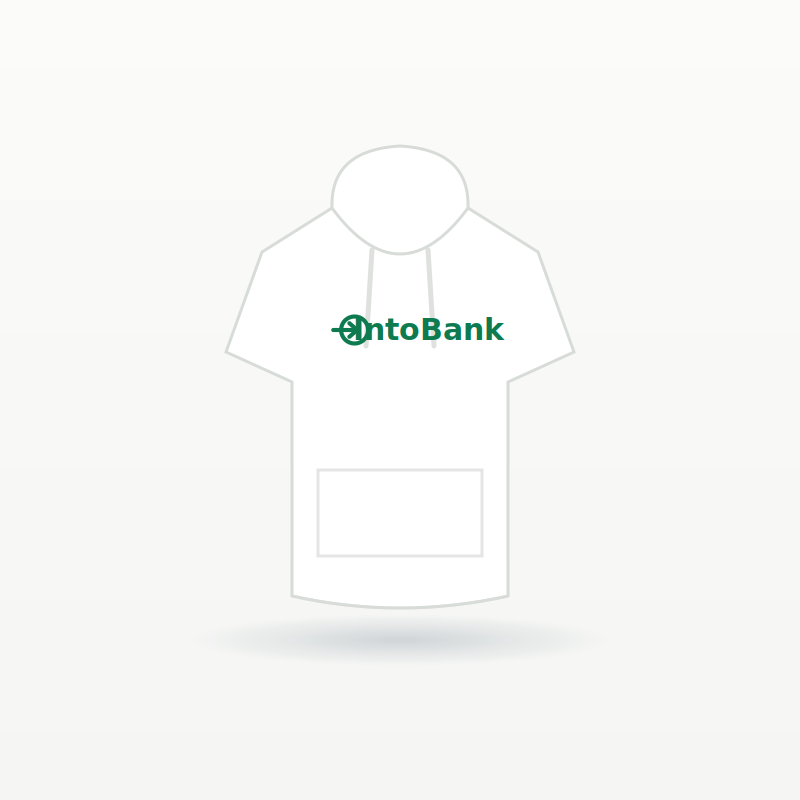
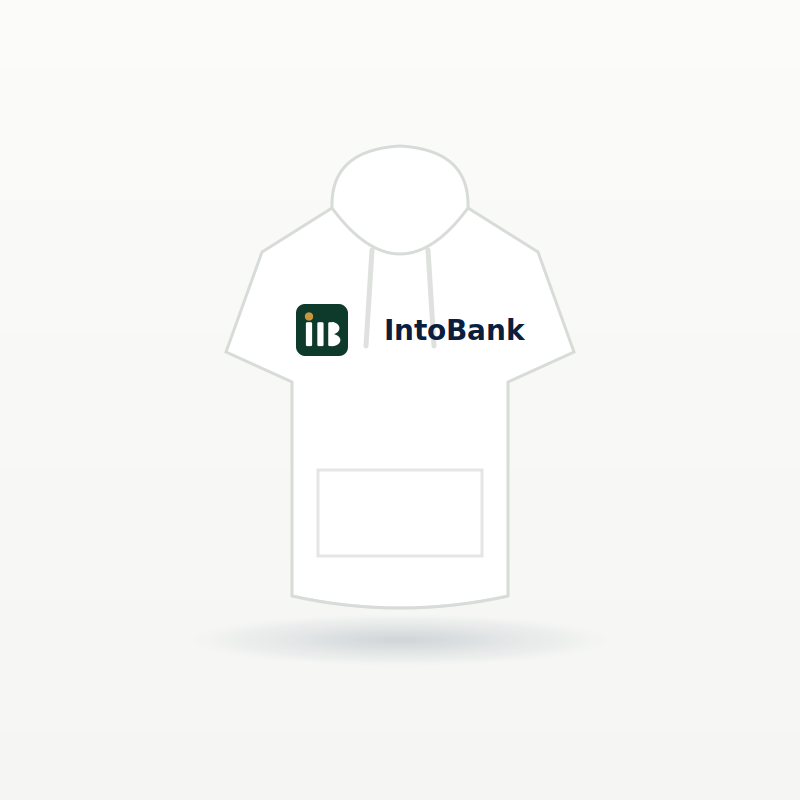
The product carousel raises mediaTouchRef during its touches so horizontal swipes stay in the carousel instead of switching feed tabs, and the storefront rebuilds with the real IntoBank mark - the dark green tile with white iB letterforms and the gold dot - across all twenty products

Changed region(s): [[0.3438, 0.375, 0.6562, 0.4688]]

diff --git a/admin-web/public/intobank/index.html b/admin-web/public/intobank/index.html
@@ -55,7 +55,7 @@
 <body>
 <header><div class="bar">
   <span class="logo">
-    <svg width="30" height="30" viewBox="0 0 60 60"><rect x="4" y="4" width="52" height="52" rx="7.8" fill="#0E7A4F"/><circle cx="32.6" cy="30" r="13.52" fill="none" stroke="#FFFFFF" stroke-width="4.16"/><path d="M11.280000000000001,30 L34.16,30" stroke="#FFFFFF" stroke-width="4.16" stroke-linecap="round"/><path d="M27.4,23.240000000000002 L35.2,30 L27.4,36.76" fill="none" stroke="#FFFFFF" stroke-width="4.16" stroke-linecap="round" stroke-linejoin="round"/></svg>
+    <svg width="30" height="30" viewBox="0 0 60 60"><rect x="4" y="4" width="52" height="52" rx="8.84" fill="#0D3A2B"/><rect x="13.879999999999999" y="22.2" width="6.24" height="23.920000000000005" rx="1.2480000000000002" fill="#FFFFFF"/><circle cx="17.0" cy="16.48" r="4.16" fill="#C9963B"/><rect x="25.32" y="22.2" width="6.24" height="23.920000000000005" rx="1.2480000000000002" fill="#FFFFFF"/><rect x="36.24" y="22.2" width="6.24" height="23.920000000000005" rx="1.2480000000000002" fill="#FFFFFF"/><path d="M39.984,22.2 L39.984,34.160000000000004 A7.415200000000001,5.980000000000001 0 0 0 39.984,22.2 Z" fill="#FFFFFF"/><path d="M39.984,34.160000000000004 L39.984,46.120000000000005 A8.372000000000002,5.980000000000001 0 0 0 39.984,34.160000000000004 Z" fill="#FFFFFF"/></svg>
     IntoBank
   </span>
   <span class="demo">Demo storefront</span>

diff --git a/src/screens/feed/FeedScreen.tsx b/src/screens/feed/FeedScreen.tsx
@@ -1587,13 +1587,15 @@ if (!search && promos.length > 0) {
             <Feather name="share-2" size={20} color={light.ink.muted} />
           </TouchableOpacity>
         </View>
-        {post.products && post.products.length > 0 && (
-          <ProductCarousel
-            products={post.products}
-            onOpenListing={(listingId) =>
-              navigation.navigate('Market', { screen: 'ListingDetail', params: { listingId } })
-            }
-          />
+        {post.products && post.products.length > 0 && (/* carousel holds the tab swipe */
+          <View onTouchStart={() => { mediaTouchRef.current = true; }} onTouchEnd={() => { mediaTouchRef.current = false; }} onTouchCancel={() => { mediaTouchRef.current = false; }}>
+            <ProductCarousel
+              products={post.products}
+              onOpenListing={(listingId) =>
+                navigation.navigate('Market', { screen: 'ListingDetail', params: { listingId } })
+              }
+            />
+          </View>
         )}
 
         {post.likes_count > 0 && (
